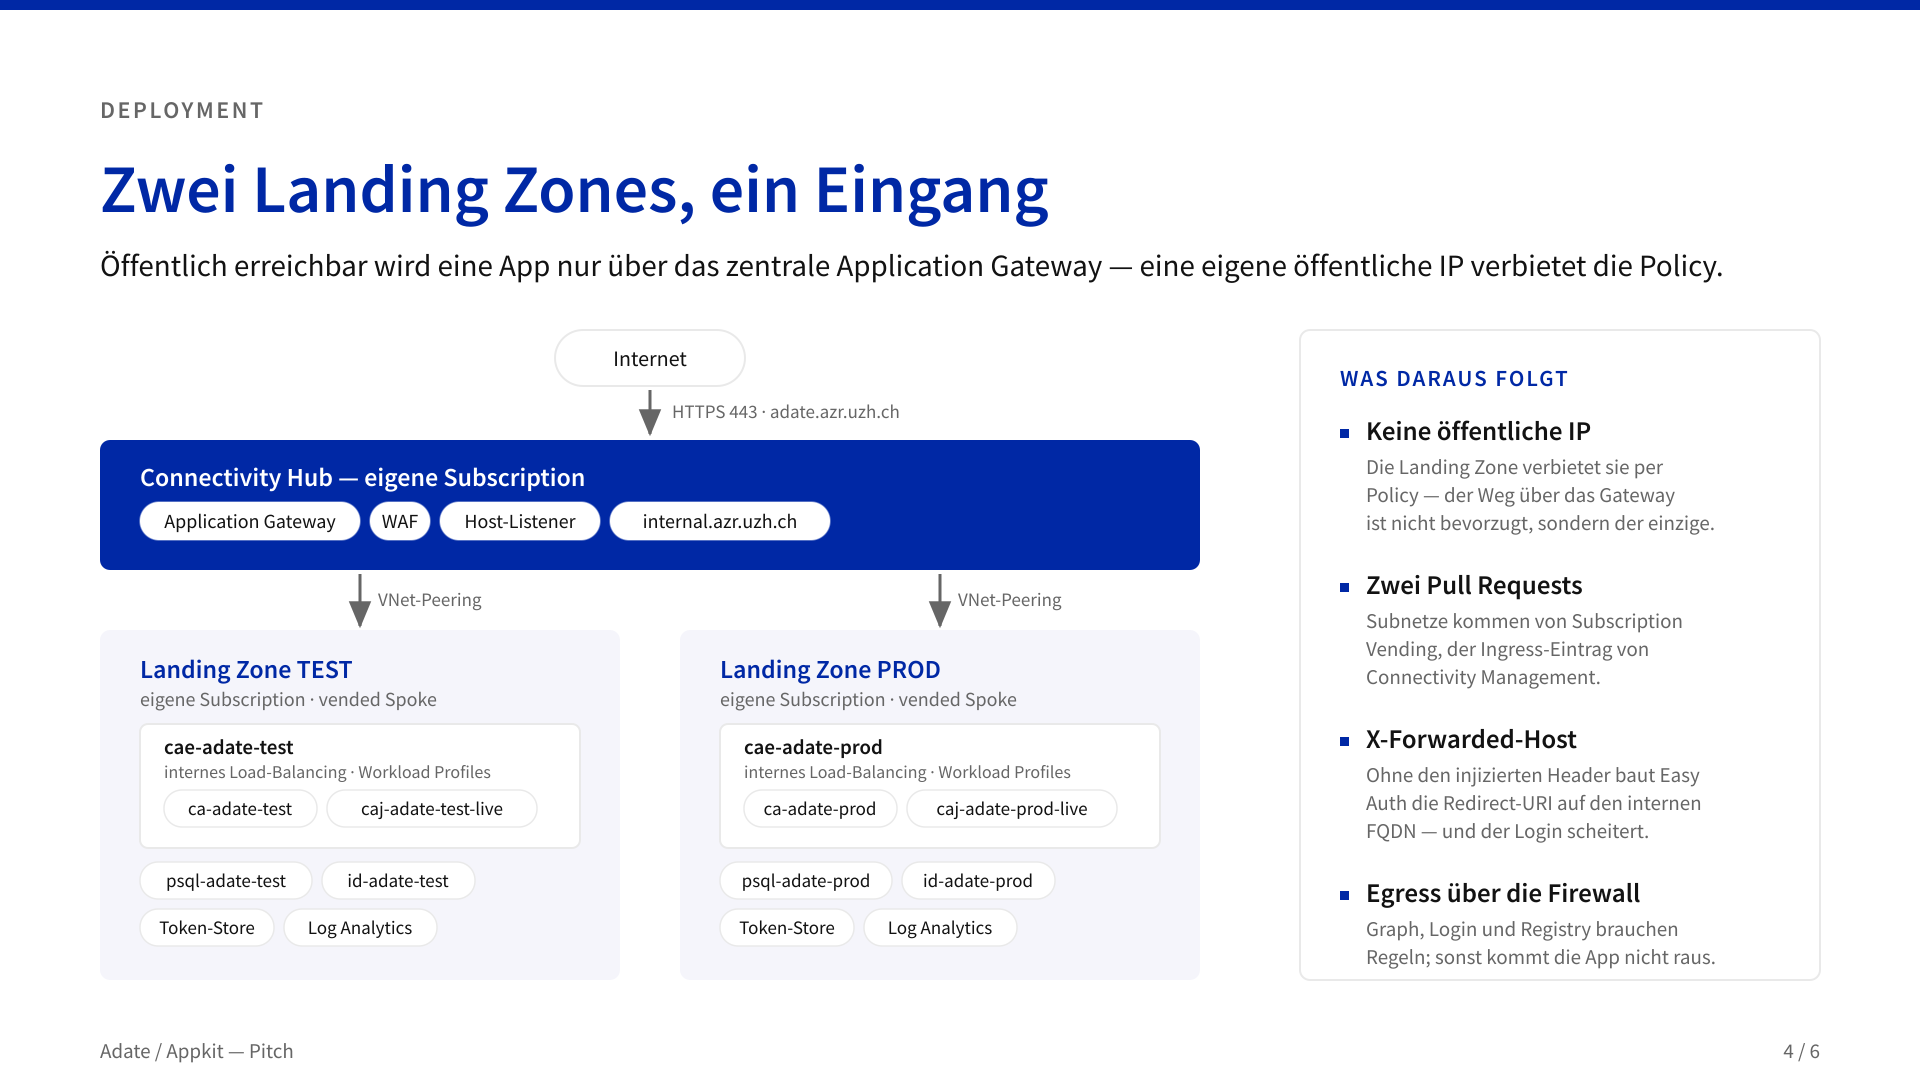
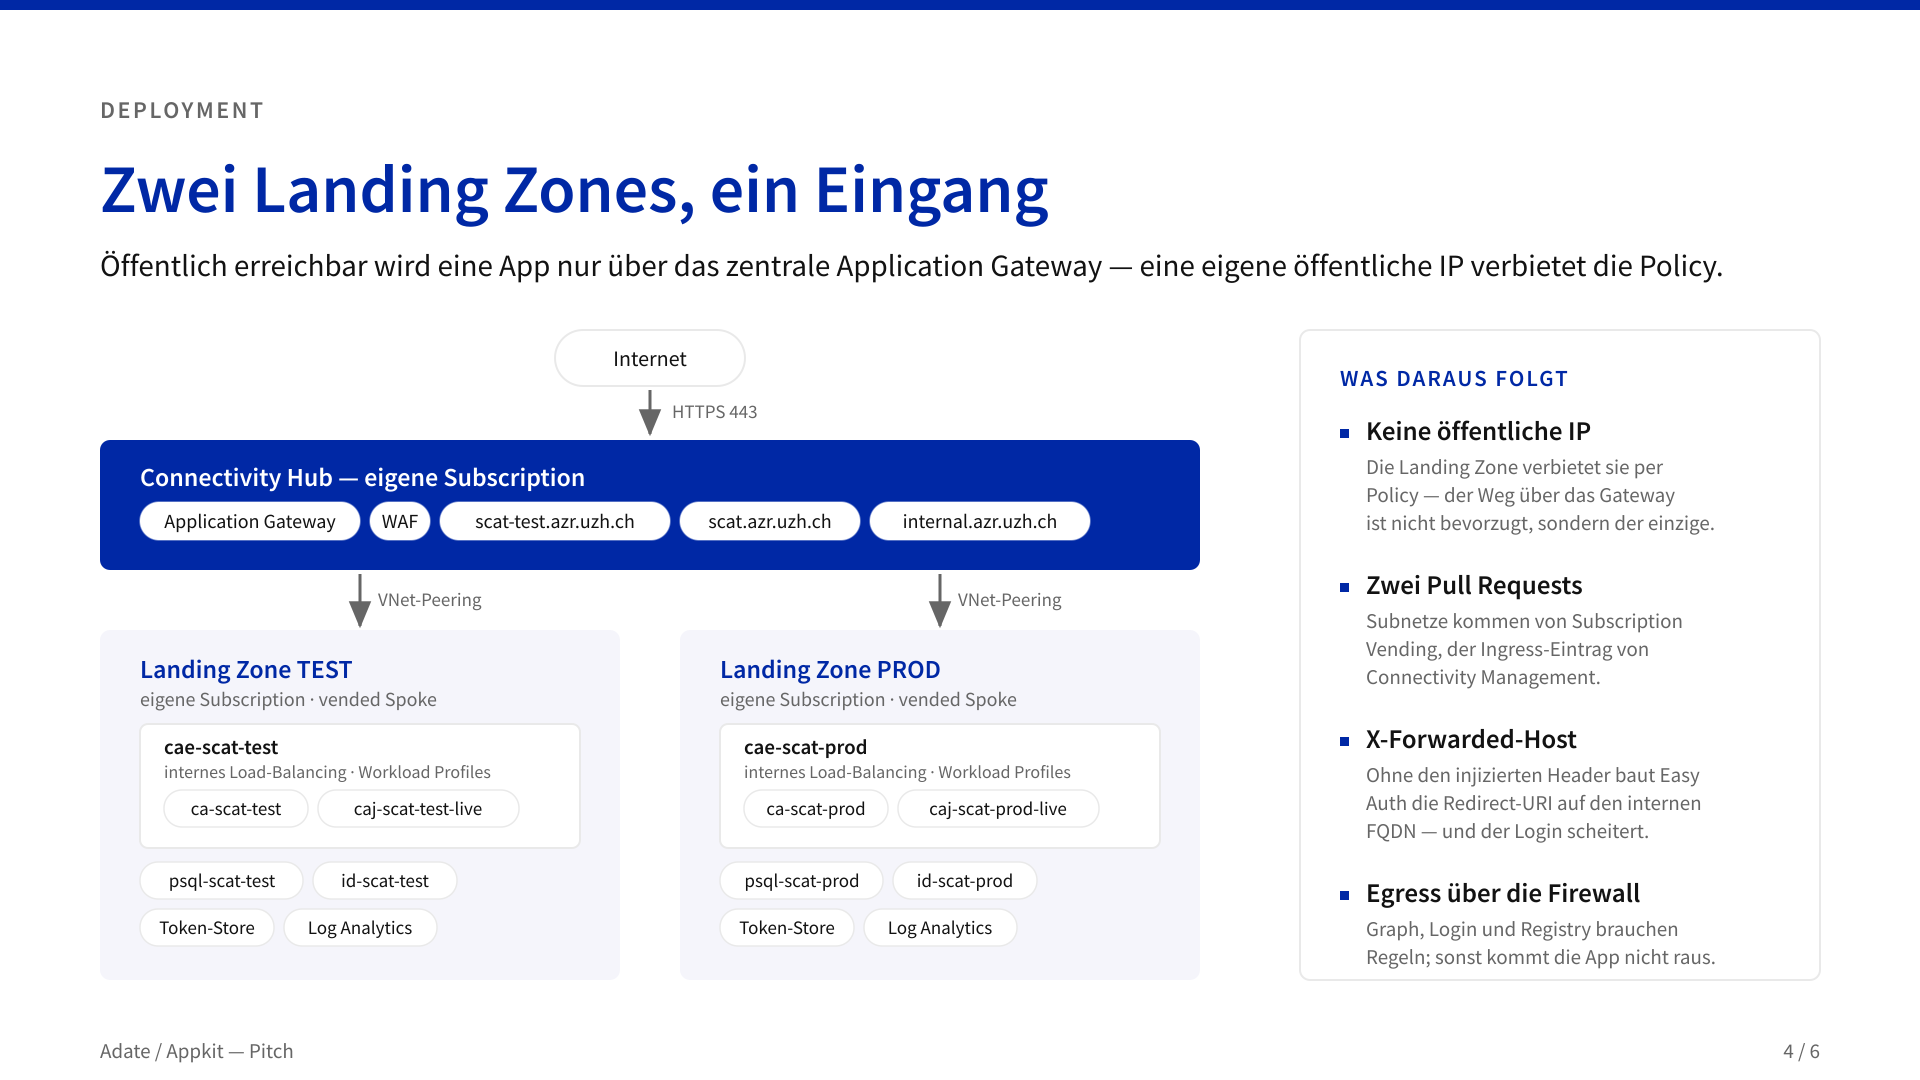
Name the deployment slide's resources after the app, not the template
uzh-app-platform names everything `<prefix>-${project}-${env}`, and "adate" in
its tfvars is the example, not the app. Deploying the service catalogue means
`project = "scat"`, so the slide now reads cae-scat-test, ca-scat-test,
caj-scat-test-live, psql-scat-test — which is what an audience recognises,
where "adate" invited the question of why the template is running in Azure.

The gateway now carries the two public hostnames instead of a generic
"Host-Listener" chip, because host-based routing is exactly what makes one
gateway serve two landing zones. They are illustrative; a hostname becomes real
with the routing entry in UZH-Connectivity-Management.

diff --git a/docs/pitch/generate-deployment.py b/docs/pitch/generate-deployment.py
@@ -67,11 +67,11 @@ def spoke(x, env, y=630, w=520):
         f'<rect x="{x + 40}" y="{y + 94}" width="{w - 80}" height="124" rx="8" '
         f'fill="#FFFFFF" stroke="{LINE}" stroke-width="2"/>'
     )
-    text(x + 64, y + 124, 21, f"cae-adate-{env}", weight=600)
+    text(x + 64, y + 124, 21, f"cae-scat-{env}", weight=600)
     text(x + 64, y + 148, 18, "internes Load-Balancing · Workload Profiles", fill=GREY)
-    chips([f"ca-adate-{env}", f"caj-adate-{env}-live"], x + 64, y + 160, w - 128, size=19)
+    chips([f"ca-scat-{env}", f"caj-scat-{env}-live"], x + 64, y + 160, w - 128, size=19)
 
-    chips([f"psql-adate-{env}", f"id-adate-{env}", "Token-Store", "Log Analytics"],
+    chips([f"psql-scat-{env}", f"id-scat-{env}", "Token-Store", "Log Analytics"],
           x + 40, y + 232, w - 80, size=19)
 
 
@@ -102,12 +102,13 @@ add(
 )
 text(650, 366, 22, "Internet", anchor="middle")
 arrow_down(650, 390, 434)
-text(672, 418, 19, "HTTPS 443 · adate.azr.uzh.ch", fill=GREY)
+text(672, 418, 19, "HTTPS 443", fill=GREY)
 
 # Connectivity Hub
 add(f'<rect x="100" y="440" width="1100" height="130" rx="10" fill="{BLUE}"/>')
 text(140, 486, 26, "Connectivity Hub — eigene Subscription", fill="#FFFFFF", weight=600)
-chips(["Application Gateway", "WAF", "Host-Listener", "internal.azr.uzh.ch"],
+chips(["Application Gateway", "WAF", "scat-test.azr.uzh.ch", "scat.azr.uzh.ch",
+       "internal.azr.uzh.ch"],
       140, 502, 1020, dark=True)
 
 # Peering in die beiden Spokes

diff --git a/docs/pitch/README.md b/docs/pitch/README.md
@@ -43,11 +43,14 @@ Modulen oder Ressourcen automatisch stimmen. Die übrigen vier sind
 handgeschriebenes SVG und werden direkt editiert; Text bricht in SVG nicht um,
 jede Zeile ist also ein eigenes `<text>` bzw. `<tspan>`.
 
-Folie 4 gibt den Stand von
-[uzh-app-platform](https://github.com/uzh-zi/uzh-app-platform) wieder: ein
-`cae-adate-<env>` je vended Landing Zone, internes Load-Balancing, Workload
-Profiles. Prod existiert dort noch nicht als eigene `tfvars` — die Folie zeigt
-Test und Prod als das Zielbild, das die Trennung der Subscriptions vorgibt.
+Folie 4 folgt der Namensgebung von
+[uzh-app-platform](https://github.com/uzh-zi/uzh-app-platform): alle Ressourcen
+heissen `<präfix>-${project}-${env}`, und die Folie setzt `project = "scat"` ein
+— also die konkrete App statt des Template-Namens. Zwei Vereinfachungen sind
+bewusst: Prod existiert dort heute nicht als eigene `tfvars` (die Folie zeigt
+Test und Prod als Zielbild, das die Trennung der Subscriptions vorgibt), und die
+beiden Hostnamen am Gateway sind illustrativ — verbindlich wird ein Hostname
+erst mit dem Routing-Eintrag in UZH-Connectivity-Management.
 
 ## Woher die Zahlen stammen
 
